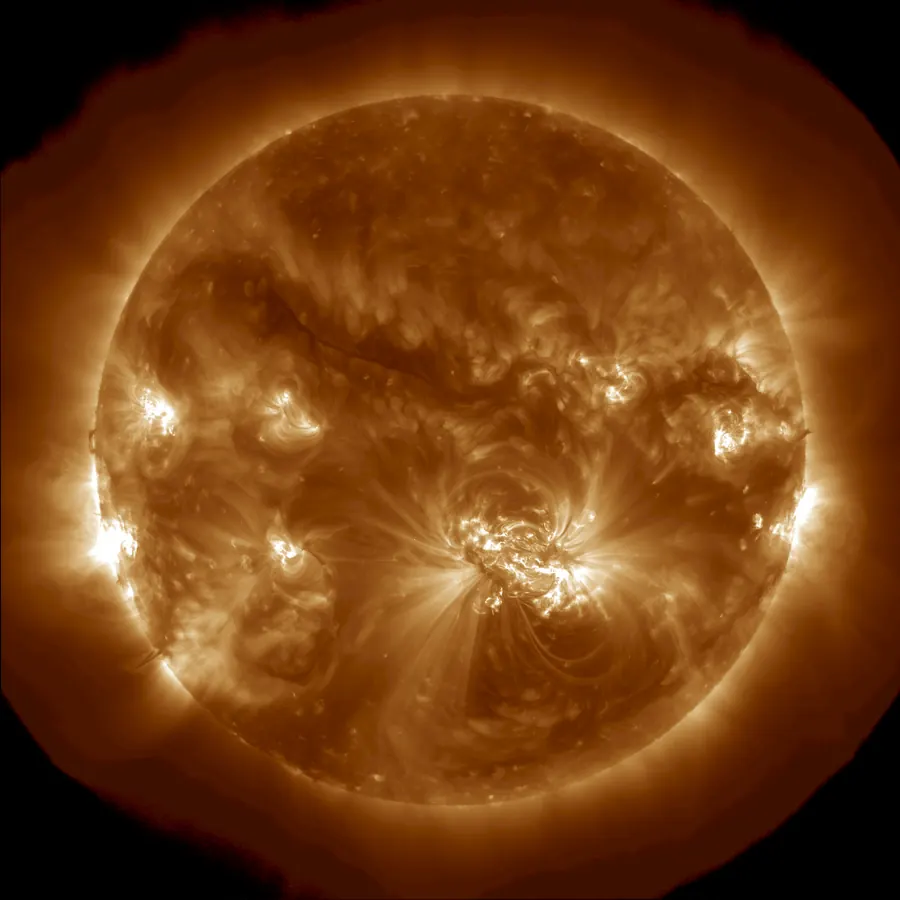
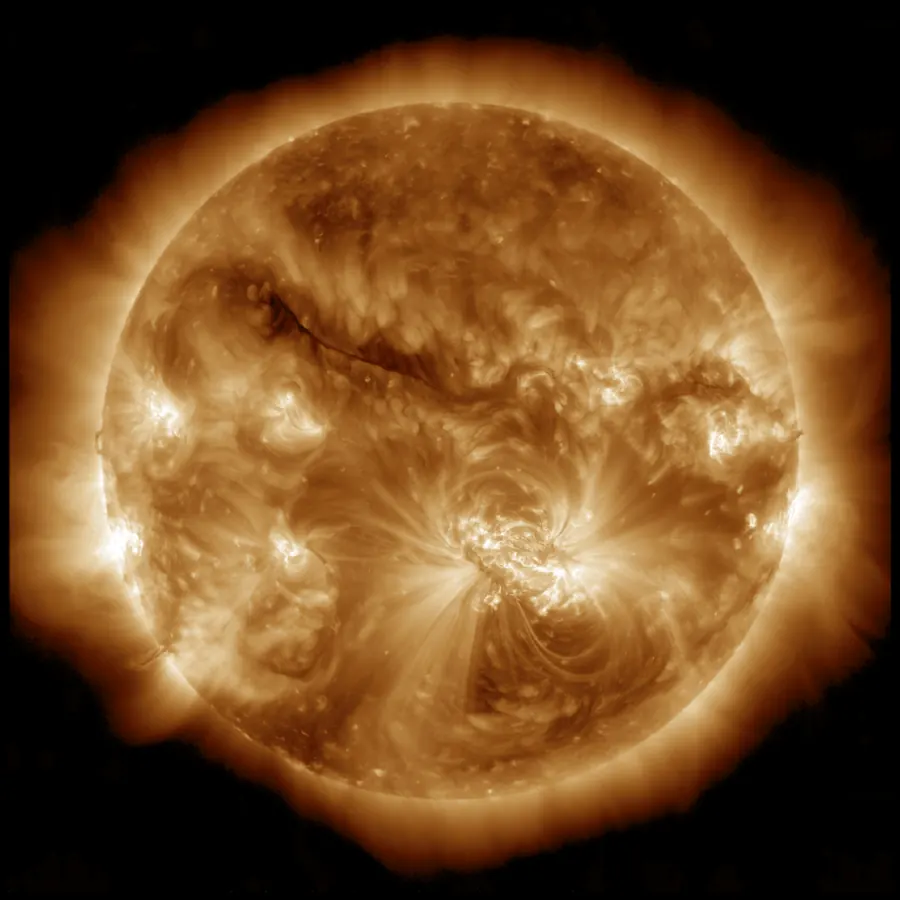
Quality strip: show once + Original matches the browsed JPG look
Collapse the before/after showcase to a thin re-open pill on the first
step transition instead of pinning it above every step; the pill toggles
it back. Rebuild compare_raw.webp from the Helioviewer JPG (what people
already browse on the vibe grid) registered into the FITS frame so the
drag-slider limb still lines up with the RHEF pane, replacing the
sqrt(raw) render with its off-disk noise halo.

diff --git a/api/solar-archive.js b/api/solar-archive.js
@@ -5771,6 +5771,26 @@ import { saveDesignLocally, initBundler } from "./bundler.js";
       if (diptych) diptych.addEventListener("click", _activateSlider);
     })();
 
+    // ── Quality strip: collapse after first view ─────────────────
+    // The before/after showcase is worth seeing once, but pinned above
+    // every step it just eats vertical space. Collapse it to a thin
+    // re-open bar on the first real step transition; the bar toggles it
+    // back. Guard on from!==to so the initial bootstrap sync (which can
+    // dispatch step-change with from===to) doesn't collapse it on load.
+    (function _wireQualityStripCollapse() {
+      var strip = document.getElementById("qualityStrip");
+      var bar = document.getElementById("qualityStripBar");
+      if (!strip || !bar) return;
+      document.body.addEventListener("solar-archive:step-change", function (e) {
+        var d = (e && e.detail) || {};
+        if (d.from && d.from !== d.to) strip.classList.add("collapsed");
+      });
+      bar.addEventListener("click", function () {
+        var collapsed = strip.classList.toggle("collapsed");
+        bar.setAttribute("aria-expanded", collapsed ? "false" : "true");
+      });
+    })();
+
     // ── Toast ────────────────────────────────────────────────────
     var toastTimer = null;
     function showToast(msg, type) {

diff --git a/api/solar-archive.css b/api/solar-archive.css
@@ -272,6 +272,29 @@ body::before {
 
 /* Landing quality-showcase strip (RHEF innovation, above the product picker). */
 .quality-strip-section { text-align: center; }
+/* Collapse-after-first-view: once .collapsed is set (first step transition),
+   hide the heavy showcase + copy and show only the thin re-open bar. */
+.quality-strip-bar { display: none; }
+.quality-strip-section.collapsed .quality-diptych,
+.quality-strip-section.collapsed .compare-slider,
+.quality-strip-section.collapsed .quality-strip-caption,
+.quality-strip-section.collapsed .quality-strip-fineprint { display: none !important; }
+.quality-strip-section.collapsed .quality-strip-bar {
+  display: inline-flex;
+  align-items: center;
+  gap: 8px;
+  margin: 0 auto;
+  padding: 8px 16px;
+  color: var(--text-secondary);
+  font-size: 0.82rem;
+  background: var(--surface-2, rgba(255,255,255,0.04));
+  border: 1px solid var(--border-subtle, rgba(255,255,255,0.12));
+  border-radius: 999px;
+  cursor: pointer;
+}
+.quality-strip-section.collapsed .quality-strip-bar:hover {
+  color: var(--accent-corona-text, #f3d385);
+}
 .quality-strip-section img {
   width: 100%;
   max-width: 1100px;

diff --git a/api/index.html b/api/index.html
@@ -148,6 +148,15 @@
        make_compare_pair.py); zero backend. If either 404s, the whole block is
        swapped for the baked quality_strip.webp so it can never render broken. -->
   <div class="section quality-strip-section" id="qualityStrip">
+    <!-- Collapsed affordance: shown only when .collapsed is on the section
+         (added on the first step transition — see _wireQualityStripCollapse).
+         Clicking it re-expands the strip; it is the "bring it back" control. -->
+    <button type="button" class="quality-strip-bar" id="qualityStripBar"
+            aria-expanded="true"
+            aria-label="Show the Original vs Filtered comparison">
+      <i class="fas fa-arrows-left-right" aria-hidden="true"></i>
+      Original vs Filtered &mdash; see what RHEF reveals
+    </button>
     <button type="button" class="quality-diptych" id="qualityDiptych"
             aria-label="The Sun before and after the contrast-equalization step, side by side. Activate to compare them hands-on with a draggable slider.">
       <span class="diptych-pane">

diff --git a/api/scripts/make_compare_pair.py b/api/scripts/make_compare_pair.py
@@ -2,20 +2,27 @@
 """Generate the co-registered image pair for the landing before/after slider.
 
 Usage:
-    python3 api/scripts/make_compare_pair.py [raw_full.png] [rhef_full.png]
+    python3 api/scripts/make_compare_pair.py [jpg_hq.png] [raw_full.png] [rhef_full.png]
 
-Inputs default to /tmp/ar2192_{raw,rhef}_full.png — the same AR 2192 frames the
-quality-strip diptych is rendered from (fetch them from
-https://myheliograph.com/asset/default/vibe/ar2192/{raw,rhef}_full.png).
+Inputs default to /tmp/ar2192_{jpg_hq,raw,rhef}_full.png — the same AR 2192
+frames the quality-strip diptych is rendered from (fetch them from
+https://myheliograph.com/asset/default/vibe/ar2192/{jpg_hq,raw_full,rhef_full}.png).
 
 Outputs two 900x900 webps into infra/data_mirror/mirror/default_cache/:
-    compare_raw.webp   — sqrt-brightened raw (matches the baked-thumb and
-                         diptych "Original" convention, see PR #26 history)
+    compare_raw.webp   — the Helioviewer JPG ("Original") the same way customers
+                         browse it on the vibe grid, but REGISTERED into the FITS
+                         frame so its solar limb lines up with the RHEF pane.
     compare_rhef.webp  — the RHEF frame as-is
 
-Both come from the SAME source framing, so the slider divider lines up
-pixel-for-pixel. Keep total size well under 300 KB — these ship as edge
-static assets on the landing page.
+Why the JPG and not sqrt(raw): the vibe grid shows Helioviewer JPGs, so the
+before/after "Original" has to match what people have already been looking at
+(bright disk on black), not a sqrt-stretched raw FITS with an off-disk noise
+halo. The JPG has a different plate scale, so we detect the solar limb in the
+JPG and in raw_full (rhef_full has no sharp limb — it's equalized — but shares
+raw_full's FITS framing) and scale the JPG about frame-centre so both limbs
+coincide. Result: the slider divider lines up pixel-for-pixel on the disk.
+
+Keep total size well under 300 KB — these ship as edge static assets.
 """
 import os
 import sys
@@ -26,9 +33,26 @@ from PIL import Image
 SIZE = 900
 QUALITY = 78
 
+
+def _limb_radius(im):
+    """Solar limb radius in pixels, from the sharpest negative radial gradient
+    of the azimuthally-averaged brightness. Assumes a centred full disk."""
+    a = np.asarray(im.convert("L"), dtype=np.float32)
+    n = a.shape[0]
+    c = (n - 1) / 2.0
+    yy, xx = np.mgrid[0:n, 0:n]
+    r = np.sqrt((xx - c) ** 2 + (yy - c) ** 2).astype(int)
+    prof = np.bincount(r.ravel(), a.ravel()) / np.maximum(np.bincount(r.ravel()), 1)
+    ps = np.convolve(prof, np.ones(15) / 15, "same")
+    g = np.gradient(ps)
+    lo, hi = int(0.45 * n / 2), int(0.99 * n / 2)
+    return lo + int(np.argmin(g[lo:hi]))
+
+
 def main() -> int:
-    raw_in = sys.argv[1] if len(sys.argv) > 1 else "/tmp/ar2192_raw_full.png"
-    rhef_in = sys.argv[2] if len(sys.argv) > 2 else "/tmp/ar2192_rhef_full.png"
+    jpg_in = sys.argv[1] if len(sys.argv) > 1 else "/tmp/ar2192_jpg_hq.png"
+    raw_in = sys.argv[2] if len(sys.argv) > 2 else "/tmp/ar2192_raw_full.png"
+    rhef_in = sys.argv[3] if len(sys.argv) > 3 else "/tmp/ar2192_rhef_full.png"
     out_dir = os.path.join(os.path.dirname(__file__), "..", "..",
                            "infra", "data_mirror", "mirror", "default_cache")
     out_dir = os.path.abspath(out_dir)
@@ -36,28 +60,44 @@ def main() -> int:
         print(f"ERROR: mirror dir not found: {out_dir}")
         return 1
 
+    jpg = Image.open(jpg_in).convert("RGB")
     raw = Image.open(raw_in).convert("RGB")
     rhef = Image.open(rhef_in).convert("RGB")
     if raw.size != rhef.size:
-        print(f"ERROR: sources are not co-registered: {raw.size} vs {rhef.size}")
+        print(f"ERROR: raw/rhef are not co-registered: {raw.size} vs {rhef.size}")
         return 1
 
-    # Original = sqrt-brightened raw, the same stretch baked into the vibe
-    # thumbs and the diptych, so the slider agrees with the rest of the site.
-    a = np.asarray(raw).astype(np.float32) / 255.0
-    raw_bright = Image.fromarray(
-        (np.sqrt(a) * 255).round().clip(0, 255).astype(np.uint8), "RGB")
+    # Register the Helioviewer JPG into the FITS frame so its limb matches
+    # rhef's (== raw's, same FITS WCS). Pure centre-scale — both are centred
+    # full disks. Scale the JPG so its limb radius equals raw's, then centre-
+    # crop/pad to the FITS frame size.
+    n_fits = raw.size[0]
+    r_target = _limb_radius(raw)
+    r_jpg = _limb_radius(jpg)
+    scale = r_target / float(r_jpg)
+    new = int(round(jpg.size[0] * scale))
+    jpg_big = jpg.resize((new, new), Image.LANCZOS)
+    canvas = Image.new("RGB", (n_fits, n_fits), (0, 0, 0))
+    off = (n_fits - new) // 2          # negative -> PIL crops, staying centred
+    canvas.paste(jpg_big, (off, off))
+    r_check = _limb_radius(canvas)
+    if abs(r_check - r_target) > 0.02 * n_fits:
+        print(f"WARN: registered limb {r_check} off target {r_target} "
+              f"(>2% of frame) — check inputs are centred full disks")
 
     total = 0
-    for name, im in (("compare_raw.webp", raw_bright), ("compare_rhef.webp", rhef)):
+    for name, im in (("compare_raw.webp", canvas), ("compare_rhef.webp", rhef)):
         path = os.path.join(out_dir, name)
         im.resize((SIZE, SIZE), Image.LANCZOS).save(
             path, "WEBP", quality=QUALITY, method=6)
         kb = os.path.getsize(path) // 1024
         total += kb
         print(f"  {name}: {kb} KB")
+    print(f"registered JPG limb {r_check}px -> raw limb {r_target}px "
+          f"(scale {scale:.3f})")
     print(f"total: {total} KB {'OK' if total < 300 else 'OVER BUDGET'}")
     return 0 if total < 300 else 1
+
 
 if __name__ == "__main__":
     sys.exit(main())
